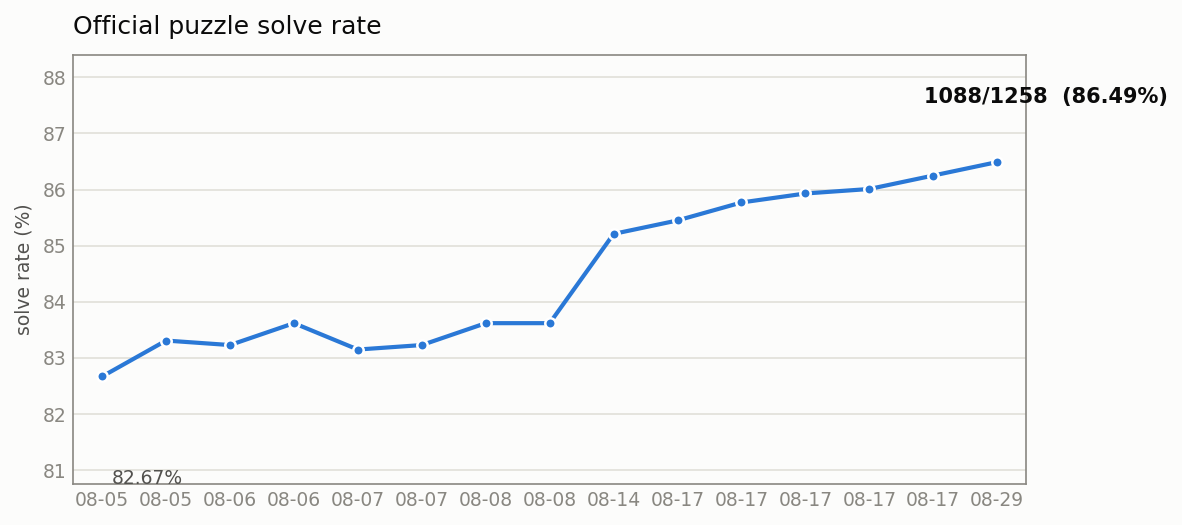
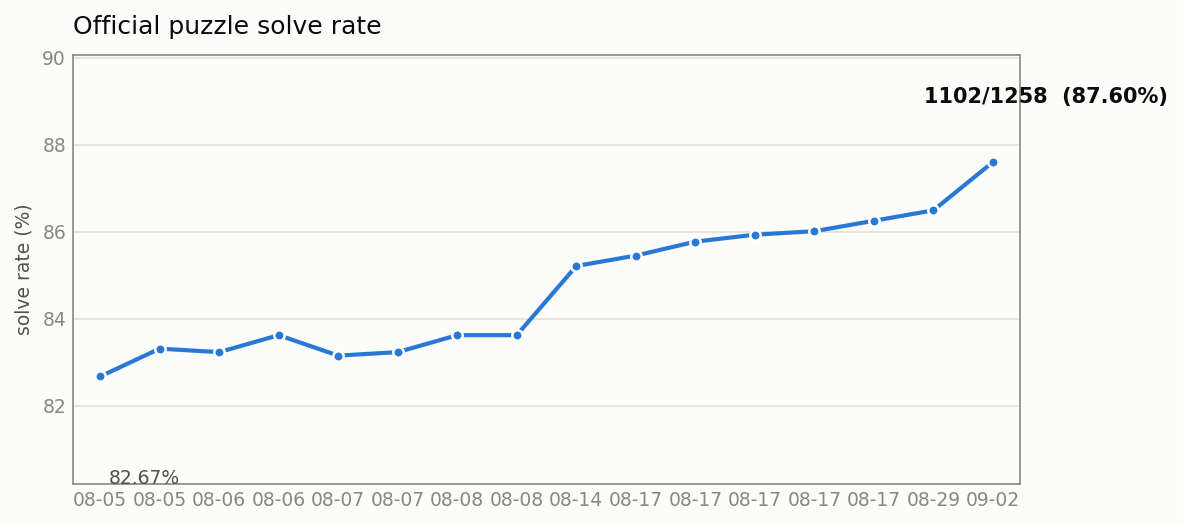
docs: update solver history to 1102/1258 (c10e181, edge_csp fence gate)

Changed region(s): [[0.0305, 0.0914, 1.0, 0.9752], [0.1523, 0.0305, 0.335, 0.061]]

diff --git a/web/public/trend/index.html b/web/public/trend/index.html
@@ -68,103 +68,108 @@ a { color: var(--series); }
   <h1>官方谜题求解能力变化</h1>
   <p class="sub">官方谜题 (puzzles/official, 排除 -answer 目录) · 共 1258 题 · 数据源 docs/solver-history.json</p>
   <div class="hero">
-    <span class="num">86.49%</span>
-    <span class="unit">1088 / 1258 题解出</span>
+    <span class="num">87.60%</span>
+    <span class="unit">1102 / 1258 题解出</span>
   </div>
-  <span class="delta">较上次 ▲ <span class="up">0.24%</span>（1088/1258）</span>
+  <span class="delta">较上次 ▲ <span class="up">1.11%</span>（1102/1258）</span>
   <div id="chart-wrap" style="position:relative"><div class="tooltip" id="tooltip" style="visibility:hidden"></div><svg id="chart" viewBox="0 0 840 380" role="img" aria-label="官方题求解率变化曲线">
 <line class="grid" x1="60" y1="340.0" x2="816" y2="340.0"/>
-<text class="axis" x="50" y="344.0" text-anchor="end">81.3%</text>
+<text class="axis" x="50" y="344.0" text-anchor="end">80.9%</text>
 <line class="grid" x1="60" y1="234.7" x2="816" y2="234.7"/>
-<text class="axis" x="50" y="238.7" text-anchor="end">83.5%</text>
+<text class="axis" x="50" y="238.7" text-anchor="end">83.7%</text>
 <line class="grid" x1="60" y1="129.3" x2="816" y2="129.3"/>
-<text class="axis" x="50" y="133.3" text-anchor="end">85.7%</text>
+<text class="axis" x="50" y="133.3" text-anchor="end">86.5%</text>
 <line class="grid" x1="60" y1="24.0" x2="816" y2="24.0"/>
-<text class="axis" x="50" y="28.0" text-anchor="end">87.8%</text>
-<polyline class="line" points="60.0,274.9 114.0,243.8 168.0,247.7 222.0,228.7 276.0,251.6 330.0,247.7 384.0,228.7 438.0,228.7 492.0,151.3 546.0,139.7 600.0,124.1 654.0,116.3 708.0,112.4 762.0,100.7 816.0,89.1" fill="none"/>
+<text class="axis" x="50" y="28.0" text-anchor="end">89.3%</text>
+<polyline class="line" points="60.0,274.9 110.4,250.8 160.8,253.8 211.2,239.1 261.6,256.8 312.0,253.8 362.4,239.1 412.8,239.1 463.2,179.2 513.6,170.1 564.0,158.1 614.4,152.0 664.8,149.0 715.2,140.0 765.6,130.9 816.0,89.1" fill="none"/>
 <circle class="point" cx="60.0" cy="274.9" r="4.5">
 <title>2026-08-05  33d32c5
 1040/1258  (82.67%)</title>
 </circle>
 <text class="axis" x="60.0" y="366" text-anchor="middle">08-05</text>
-<circle class="point" cx="114.0" cy="243.8" r="4.5">
+<circle class="point" cx="110.4" cy="250.8" r="4.5">
 <title>2026-08-05  4733f59
 1048/1258  (83.31%)</title>
 </circle>
-<text class="axis" x="114.0" y="366" text-anchor="middle">08-05</text>
-<circle class="point" cx="168.0" cy="247.7" r="4.5">
+<text class="axis" x="110.4" y="366" text-anchor="middle">08-05</text>
+<circle class="point" cx="160.8" cy="253.8" r="4.5">
 <title>2026-08-06  7e569e7
 1047/1258  (83.23%)</title>
 </circle>
-<text class="axis" x="168.0" y="366" text-anchor="middle">08-06</text>
-<circle class="point" cx="222.0" cy="228.7" r="4.5">
+<text class="axis" x="160.8" y="366" text-anchor="middle">08-06</text>
+<circle class="point" cx="211.2" cy="239.1" r="4.5">
 <title>2026-08-06  dfadfe3
 1052/1258  (83.62%)</title>
 </circle>
-<text class="axis" x="222.0" y="366" text-anchor="middle">08-06</text>
-<circle class="point" cx="276.0" cy="251.6" r="4.5">
+<text class="axis" x="211.2" y="366" text-anchor="middle">08-06</text>
+<circle class="point" cx="261.6" cy="256.8" r="4.5">
 <title>2026-08-07  6169df3
 1046/1258  (83.15%)</title>
 </circle>
-<text class="axis" x="276.0" y="366" text-anchor="middle">08-07</text>
-<circle class="point" cx="330.0" cy="247.7" r="4.5">
+<text class="axis" x="261.6" y="366" text-anchor="middle">08-07</text>
+<circle class="point" cx="312.0" cy="253.8" r="4.5">
 <title>2026-08-07  cd40cab
 1047/1258  (83.23%)</title>
 </circle>
-<text class="axis" x="330.0" y="366" text-anchor="middle">08-07</text>
-<circle class="point" cx="384.0" cy="228.7" r="4.5">
+<text class="axis" x="312.0" y="366" text-anchor="middle">08-07</text>
+<circle class="point" cx="362.4" cy="239.1" r="4.5">
 <title>2026-08-08  bd2f5f5
 1052/1258  (83.62%)</title>
 </circle>
-<text class="axis" x="384.0" y="366" text-anchor="middle">08-08</text>
-<circle class="point" cx="438.0" cy="228.7" r="4.5">
+<text class="axis" x="362.4" y="366" text-anchor="middle">08-08</text>
+<circle class="point" cx="412.8" cy="239.1" r="4.5">
 <title>2026-08-08  shape-cap-aog
 1052/1258  (83.62%)</title>
 </circle>
-<text class="axis" x="438.0" y="366" text-anchor="middle">08-08</text>
-<circle class="point" cx="492.0" cy="151.3" r="4.5">
+<text class="axis" x="412.8" y="366" text-anchor="middle">08-08</text>
+<circle class="point" cx="463.2" cy="179.2" r="4.5">
 <title>2026-08-14  edge-csp-solver
 1072/1258  (85.21%)</title>
 </circle>
-<text class="axis" x="492.0" y="366" text-anchor="middle">08-14</text>
-<circle class="point" cx="546.0" cy="139.7" r="4.5">
+<text class="axis" x="463.2" y="366" text-anchor="middle">08-14</text>
+<circle class="point" cx="513.6" cy="170.1" r="4.5">
 <title>2026-08-17  8758659
 1075/1258  (85.45%)</title>
 </circle>
-<text class="axis" x="546.0" y="366" text-anchor="middle">08-17</text>
-<circle class="point" cx="600.0" cy="124.1" r="4.5">
+<text class="axis" x="513.6" y="366" text-anchor="middle">08-17</text>
+<circle class="point" cx="564.0" cy="158.1" r="4.5">
 <title>2026-08-17  dbe2f65
 1079/1258  (85.77%)</title>
 </circle>
-<text class="axis" x="600.0" y="366" text-anchor="middle">08-17</text>
-<circle class="point" cx="654.0" cy="116.3" r="4.5">
+<text class="axis" x="564.0" y="366" text-anchor="middle">08-17</text>
+<circle class="point" cx="614.4" cy="152.0" r="4.5">
 <title>2026-08-17  04ea400
 1081/1258  (85.93%)</title>
 </circle>
-<text class="axis" x="654.0" y="366" text-anchor="middle">08-17</text>
-<circle class="point" cx="708.0" cy="112.4" r="4.5">
+<text class="axis" x="614.4" y="366" text-anchor="middle">08-17</text>
+<circle class="point" cx="664.8" cy="149.0" r="4.5">
 <title>2026-08-17  d3d9c52
 1082/1258  (86.01%)</title>
 </circle>
-<text class="axis" x="708.0" y="366" text-anchor="middle">08-17</text>
-<circle class="point" cx="762.0" cy="100.7" r="4.5">
+<text class="axis" x="664.8" y="366" text-anchor="middle">08-17</text>
+<circle class="point" cx="715.2" cy="140.0" r="4.5">
 <title>2026-08-17  150005f
 1085/1258  (86.25%)</title>
 </circle>
-<text class="axis" x="762.0" y="366" text-anchor="middle">08-17</text>
-<circle class="point" cx="816.0" cy="89.1" r="4.5">
+<text class="axis" x="715.2" y="366" text-anchor="middle">08-17</text>
+<circle class="point" cx="765.6" cy="130.9" r="4.5">
 <title>2026-08-29  4be9922
 1088/1258  (86.49%)</title>
 </circle>
-<text class="axis" x="816.0" y="366" text-anchor="middle">08-29</text>
+<text class="axis" x="765.6" y="366" text-anchor="middle">08-29</text>
+<circle class="point" cx="816.0" cy="89.1" r="4.5">
+<title>2026-09-02  c10e181
+1102/1258  (87.60%)</title>
+</circle>
+<text class="axis" x="816.0" y="366" text-anchor="middle">09-02</text>
 <line class="crosshair" id="crosshair" y1="0" y2="0" visibility="hidden"/>
 </svg></div>
-  <table><thead><tr><th>日期</th><th>commit</th><th class='num'>通过</th><th class='num'>占比</th></tr></thead><tbody><tr class="latest"><td>2026-08-29</td><td>4be9922</td><td class="num">1088/1258</td><td class="num">86.49%</td></tr><tr><td>2026-08-17</td><td>150005f</td><td class="num">1085/1258</td><td class="num">86.25%</td></tr><tr><td>2026-08-17</td><td>d3d9c52</td><td class="num">1082/1258</td><td class="num">86.01%</td></tr><tr><td>2026-08-17</td><td>04ea400</td><td class="num">1081/1258</td><td class="num">85.93%</td></tr><tr><td>2026-08-17</td><td>dbe2f65</td><td class="num">1079/1258</td><td class="num">85.77%</td></tr><tr><td>2026-08-17</td><td>8758659</td><td class="num">1075/1258</td><td class="num">85.45%</td></tr><tr><td>2026-08-14</td><td>edge-csp-solver</td><td class="num">1072/1258</td><td class="num">85.21%</td></tr><tr><td>2026-08-08</td><td>shape-cap-aog</td><td class="num">1052/1258</td><td class="num">83.62%</td></tr><tr><td>2026-08-08</td><td>bd2f5f5</td><td class="num">1052/1258</td><td class="num">83.62%</td></tr><tr><td>2026-08-07</td><td>cd40cab</td><td class="num">1047/1258</td><td class="num">83.23%</td></tr><tr><td>2026-08-07</td><td>6169df3</td><td class="num">1046/1258</td><td class="num">83.15%</td></tr><tr><td>2026-08-06</td><td>dfadfe3</td><td class="num">1052/1258</td><td class="num">83.62%</td></tr><tr><td>2026-08-06</td><td>7e569e7</td><td class="num">1047/1258</td><td class="num">83.23%</td></tr><tr><td>2026-08-05</td><td>4733f59</td><td class="num">1048/1258</td><td class="num">83.31%</td></tr><tr><td>2026-08-05</td><td>33d32c5</td><td class="num">1040/1258</td><td class="num">82.67%</td></tr></tbody></table>
+  <table><thead><tr><th>日期</th><th>commit</th><th class='num'>通过</th><th class='num'>占比</th></tr></thead><tbody><tr class="latest"><td>2026-09-02</td><td>c10e181</td><td class="num">1102/1258</td><td class="num">87.60%</td></tr><tr><td>2026-08-29</td><td>4be9922</td><td class="num">1088/1258</td><td class="num">86.49%</td></tr><tr><td>2026-08-17</td><td>150005f</td><td class="num">1085/1258</td><td class="num">86.25%</td></tr><tr><td>2026-08-17</td><td>d3d9c52</td><td class="num">1082/1258</td><td class="num">86.01%</td></tr><tr><td>2026-08-17</td><td>04ea400</td><td class="num">1081/1258</td><td class="num">85.93%</td></tr><tr><td>2026-08-17</td><td>dbe2f65</td><td class="num">1079/1258</td><td class="num">85.77%</td></tr><tr><td>2026-08-17</td><td>8758659</td><td class="num">1075/1258</td><td class="num">85.45%</td></tr><tr><td>2026-08-14</td><td>edge-csp-solver</td><td class="num">1072/1258</td><td class="num">85.21%</td></tr><tr><td>2026-08-08</td><td>shape-cap-aog</td><td class="num">1052/1258</td><td class="num">83.62%</td></tr><tr><td>2026-08-08</td><td>bd2f5f5</td><td class="num">1052/1258</td><td class="num">83.62%</td></tr><tr><td>2026-08-07</td><td>cd40cab</td><td class="num">1047/1258</td><td class="num">83.23%</td></tr><tr><td>2026-08-07</td><td>6169df3</td><td class="num">1046/1258</td><td class="num">83.15%</td></tr><tr><td>2026-08-06</td><td>dfadfe3</td><td class="num">1052/1258</td><td class="num">83.62%</td></tr><tr><td>2026-08-06</td><td>7e569e7</td><td class="num">1047/1258</td><td class="num">83.23%</td></tr><tr><td>2026-08-05</td><td>4733f59</td><td class="num">1048/1258</td><td class="num">83.31%</td></tr><tr><td>2026-08-05</td><td>33d32c5</td><td class="num">1040/1258</td><td class="num">82.67%</td></tr></tbody></table>
   <p class="sub" style="margin-top:24px">曲线纵轴为缩放后的求解率区间（非 0–100），
   以突出小幅变化；完整数值见下表与仓库内 <code>docs/solver-history.json</code>。</p>
 </div>
 <script>
-const DATA = [{"date": "2026-08-05", "commit": "33d32c5", "passed": 1040, "total": 1258, "pct": 82.67}, {"date": "2026-08-05", "commit": "4733f59", "passed": 1048, "total": 1258, "pct": 83.31}, {"date": "2026-08-06", "commit": "7e569e7", "passed": 1047, "total": 1258, "pct": 83.23}, {"date": "2026-08-06", "commit": "dfadfe3", "passed": 1052, "total": 1258, "pct": 83.62}, {"date": "2026-08-07", "commit": "6169df3", "passed": 1046, "total": 1258, "pct": 83.15}, {"date": "2026-08-07", "commit": "cd40cab", "passed": 1047, "total": 1258, "pct": 83.23}, {"date": "2026-08-08", "commit": "bd2f5f5", "passed": 1052, "total": 1258, "pct": 83.62}, {"date": "2026-08-08", "commit": "shape-cap-aog", "passed": 1052, "total": 1258, "pct": 83.62}, {"date": "2026-08-14", "commit": "edge-csp-solver", "passed": 1072, "total": 1258, "pct": 85.21}, {"date": "2026-08-17", "commit": "8758659", "passed": 1075, "total": 1258, "pct": 85.45}, {"date": "2026-08-17", "commit": "dbe2f65", "passed": 1079, "total": 1258, "pct": 85.77}, {"date": "2026-08-17", "commit": "04ea400", "passed": 1081, "total": 1258, "pct": 85.93}, {"date": "2026-08-17", "commit": "d3d9c52", "passed": 1082, "total": 1258, "pct": 86.01}, {"date": "2026-08-17", "commit": "150005f", "passed": 1085, "total": 1258, "pct": 86.25}, {"date": "2026-08-29", "commit": "4be9922", "passed": 1088, "total": 1258, "pct": 86.49}];
+const DATA = [{"date": "2026-08-05", "commit": "33d32c5", "passed": 1040, "total": 1258, "pct": 82.67}, {"date": "2026-08-05", "commit": "4733f59", "passed": 1048, "total": 1258, "pct": 83.31}, {"date": "2026-08-06", "commit": "7e569e7", "passed": 1047, "total": 1258, "pct": 83.23}, {"date": "2026-08-06", "commit": "dfadfe3", "passed": 1052, "total": 1258, "pct": 83.62}, {"date": "2026-08-07", "commit": "6169df3", "passed": 1046, "total": 1258, "pct": 83.15}, {"date": "2026-08-07", "commit": "cd40cab", "passed": 1047, "total": 1258, "pct": 83.23}, {"date": "2026-08-08", "commit": "bd2f5f5", "passed": 1052, "total": 1258, "pct": 83.62}, {"date": "2026-08-08", "commit": "shape-cap-aog", "passed": 1052, "total": 1258, "pct": 83.62}, {"date": "2026-08-14", "commit": "edge-csp-solver", "passed": 1072, "total": 1258, "pct": 85.21}, {"date": "2026-08-17", "commit": "8758659", "passed": 1075, "total": 1258, "pct": 85.45}, {"date": "2026-08-17", "commit": "dbe2f65", "passed": 1079, "total": 1258, "pct": 85.77}, {"date": "2026-08-17", "commit": "04ea400", "passed": 1081, "total": 1258, "pct": 85.93}, {"date": "2026-08-17", "commit": "d3d9c52", "passed": 1082, "total": 1258, "pct": 86.01}, {"date": "2026-08-17", "commit": "150005f", "passed": 1085, "total": 1258, "pct": 86.25}, {"date": "2026-08-29", "commit": "4be9922", "passed": 1088, "total": 1258, "pct": 86.49}, {"date": "2026-09-02", "commit": "c10e181", "passed": 1102, "total": 1258, "pct": 87.6}];
 const svg = document.getElementById('chart');
 const cross = document.getElementById('crosshair');
 const tip = document.getElementById('tooltip');
